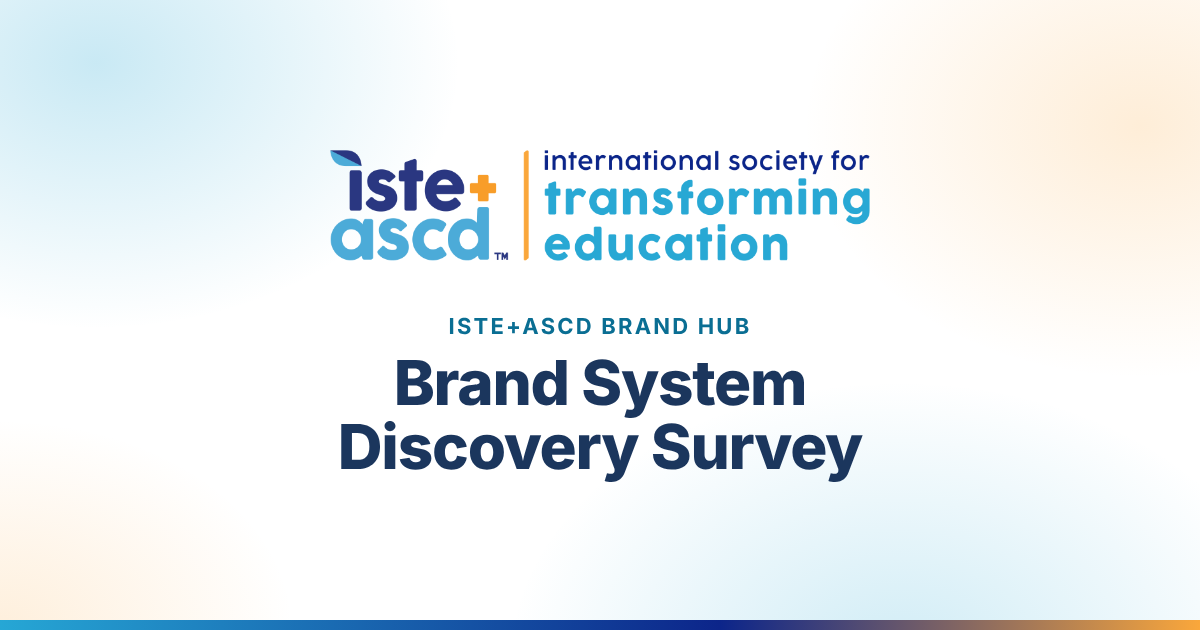
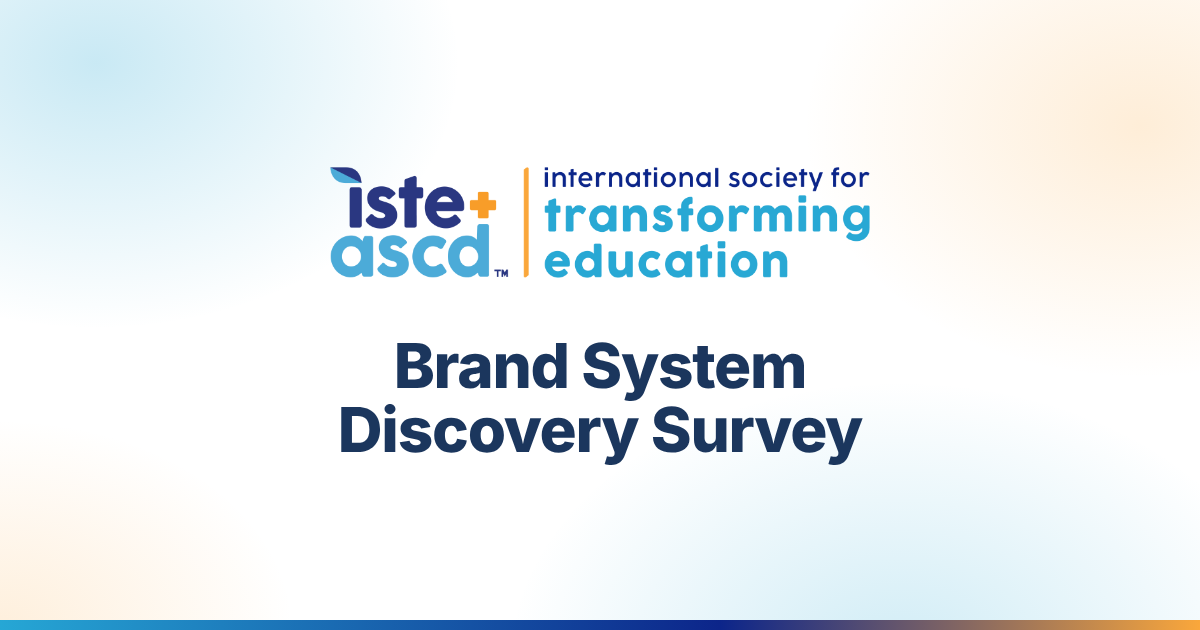
Remove the Brand Hub line from the link-preview image
Just the lockup and the survey title now. Older image filenames get the same
picture so saved previews update too.

Claude-Session: https://claude.ai/code/session_01Vg7krrahHcS69MwoXo9avF

Changed region(s): [[0.2775, 0.4825, 0.74, 0.7841], [0.2775, 0.2413, 0.74, 0.4524]]

diff --git a/survey/index.html b/survey/index.html
@@ -13,7 +13,7 @@
 <meta property="og:title" content="Brand System Discovery Survey · ISTE+ASCD">
 <meta property="og:description" content="We're building a brand system and governance framework for the International Society for Transforming Education. Share how you find, request and use brand assets today.">
 <meta property="og:url" content="https://brand.iste.org/survey/">
-<meta property="og:image" content="https://brand.iste.org/survey/og-image-v2.png">
+<meta property="og:image" content="https://brand.iste.org/survey/og-image-v3.png">
 <meta property="og:image:width" content="1200">
 <meta property="og:image:height" content="630">
 <meta property="og:image:alt" content="ISTE+ASCD logo with the title Brand System Discovery Survey">
